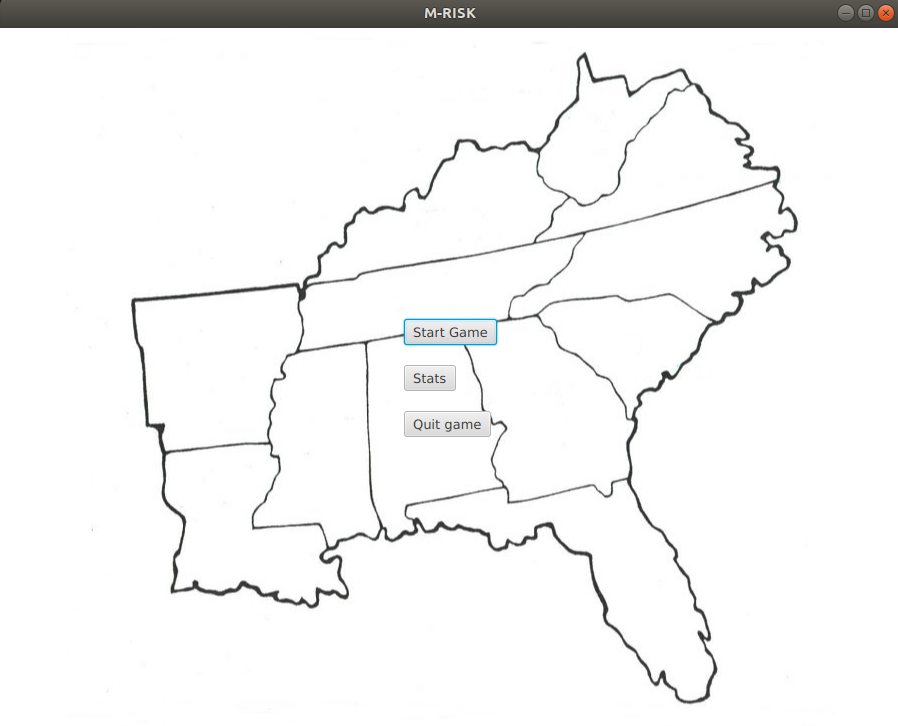
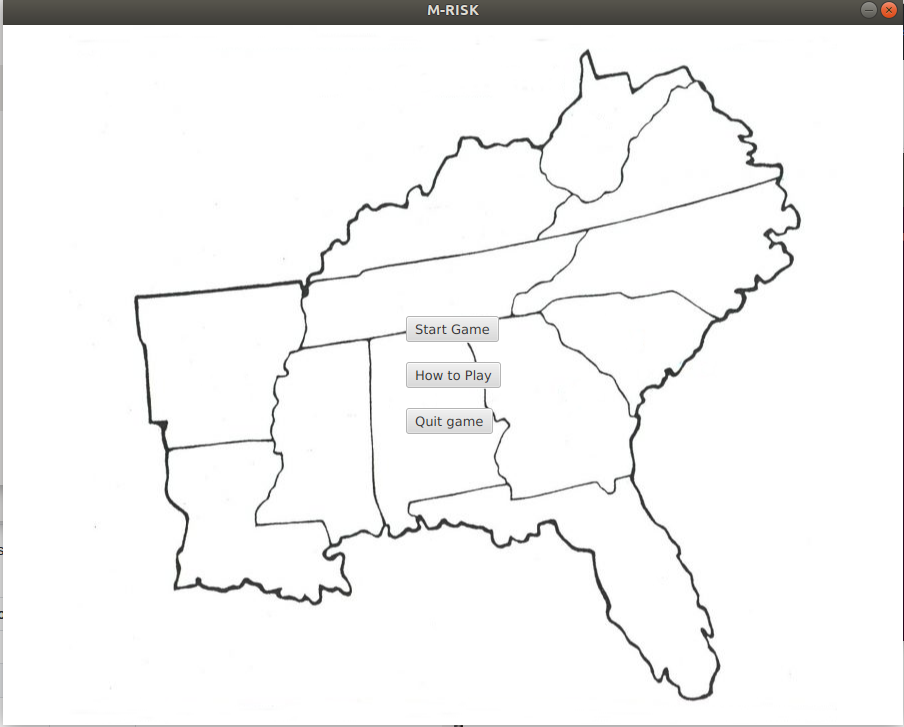
Instructions and documentation

diff --git a/dokumentointi/Kayttoohje.md b/dokumentointi/Kayttoohje.md
@@ -1,6 +1,6 @@
 # Instructions
 
-Download the file [MRisk_1.1.jar](/home/joonas/kurssit/ot2018/ot_harjoitustyo/mrisk/MRisk/target/MRisk-1.0-SNAPSHOT.jar)
+Download the file [MRisk_1.0.jar](https://github.com/learntopilk/ot_harjoitustyo/releases/download/1.3/MRisk-1.0-SNAPSHOT.jar)
 
 ### Configuring the environment
 
@@ -8,10 +8,10 @@ No configurations should be needed (that I know of).
 
 ### Starting up the game
 
-cd to the directory where the jar is located, and punch in the following spell:
+Basically just cd into the directory where the jar is located, and punch in the following spell:
 
 ```
-java -jar MRisk_1.1.jar
+java -jar MRisk_1.0.jar
 ```
 
 This is what you will see:
@@ -21,7 +21,7 @@ Press _Start Game_ to `Start the Game`.
 
 ### Playing the game
 You'll see this:
-![Game screen](gamescreen.png)
+![Game screen](countryselection.png)
 
 Or almost. in the beginning, all countries are beige. Two players will pick countries one by one.
 
@@ -29,4 +29,4 @@ After all countries are selected, the troop value (not displayed yet) of each co
 
 Units are deployed one by one, turn by turn.
 
-After all troops are deployed, the game will enter the attack phase. (**Note:** not implemented yet.)
+Full game instructions are included in the game.

diff --git a/README.md b/README.md
@@ -11,7 +11,7 @@ At the moment, the game has two players, four states, and players may pick state
 
 ## Release
 
-Check out my latest release [here](https://github.com/learntopilk/ot_harjoitustyo/releases/tag/viikko5). It's still terrible, but hey, at least you can pick countries.
+Check out my latest release [here](https://github.com/learntopilk/ot_harjoitustyo/releases/tag/1.3). It's pretty neat!
 
 
 ## Documentation
